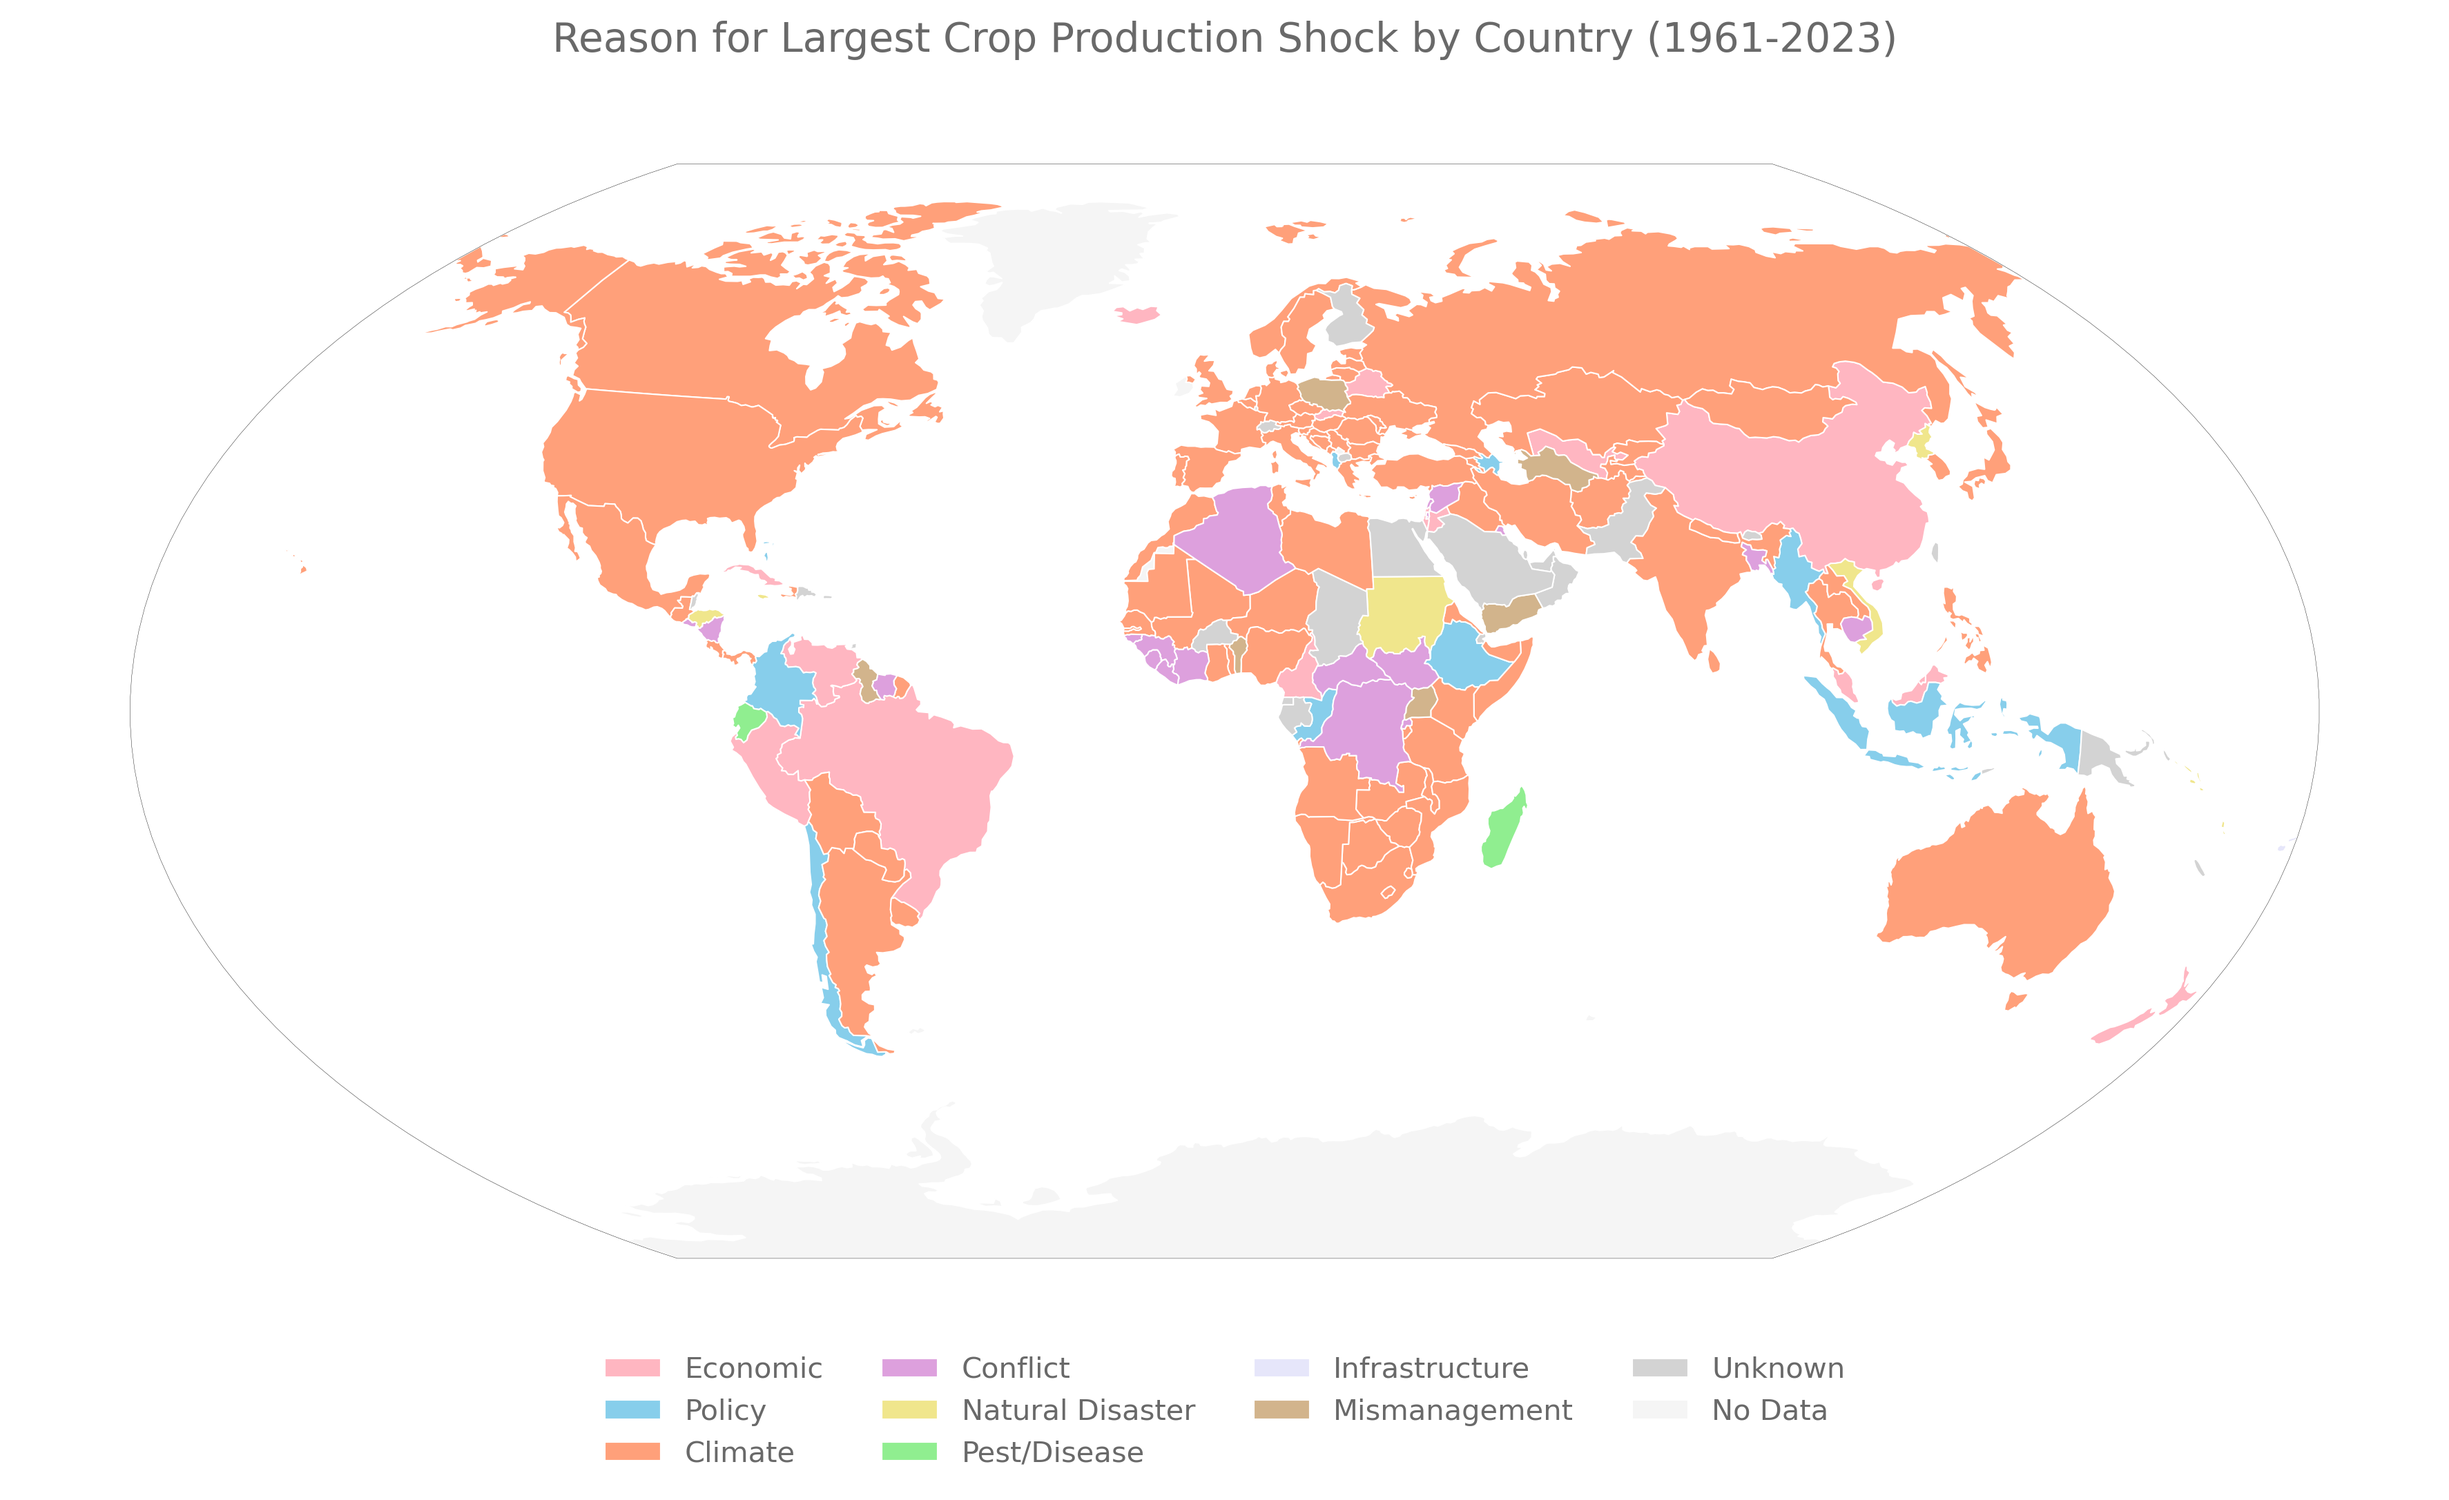
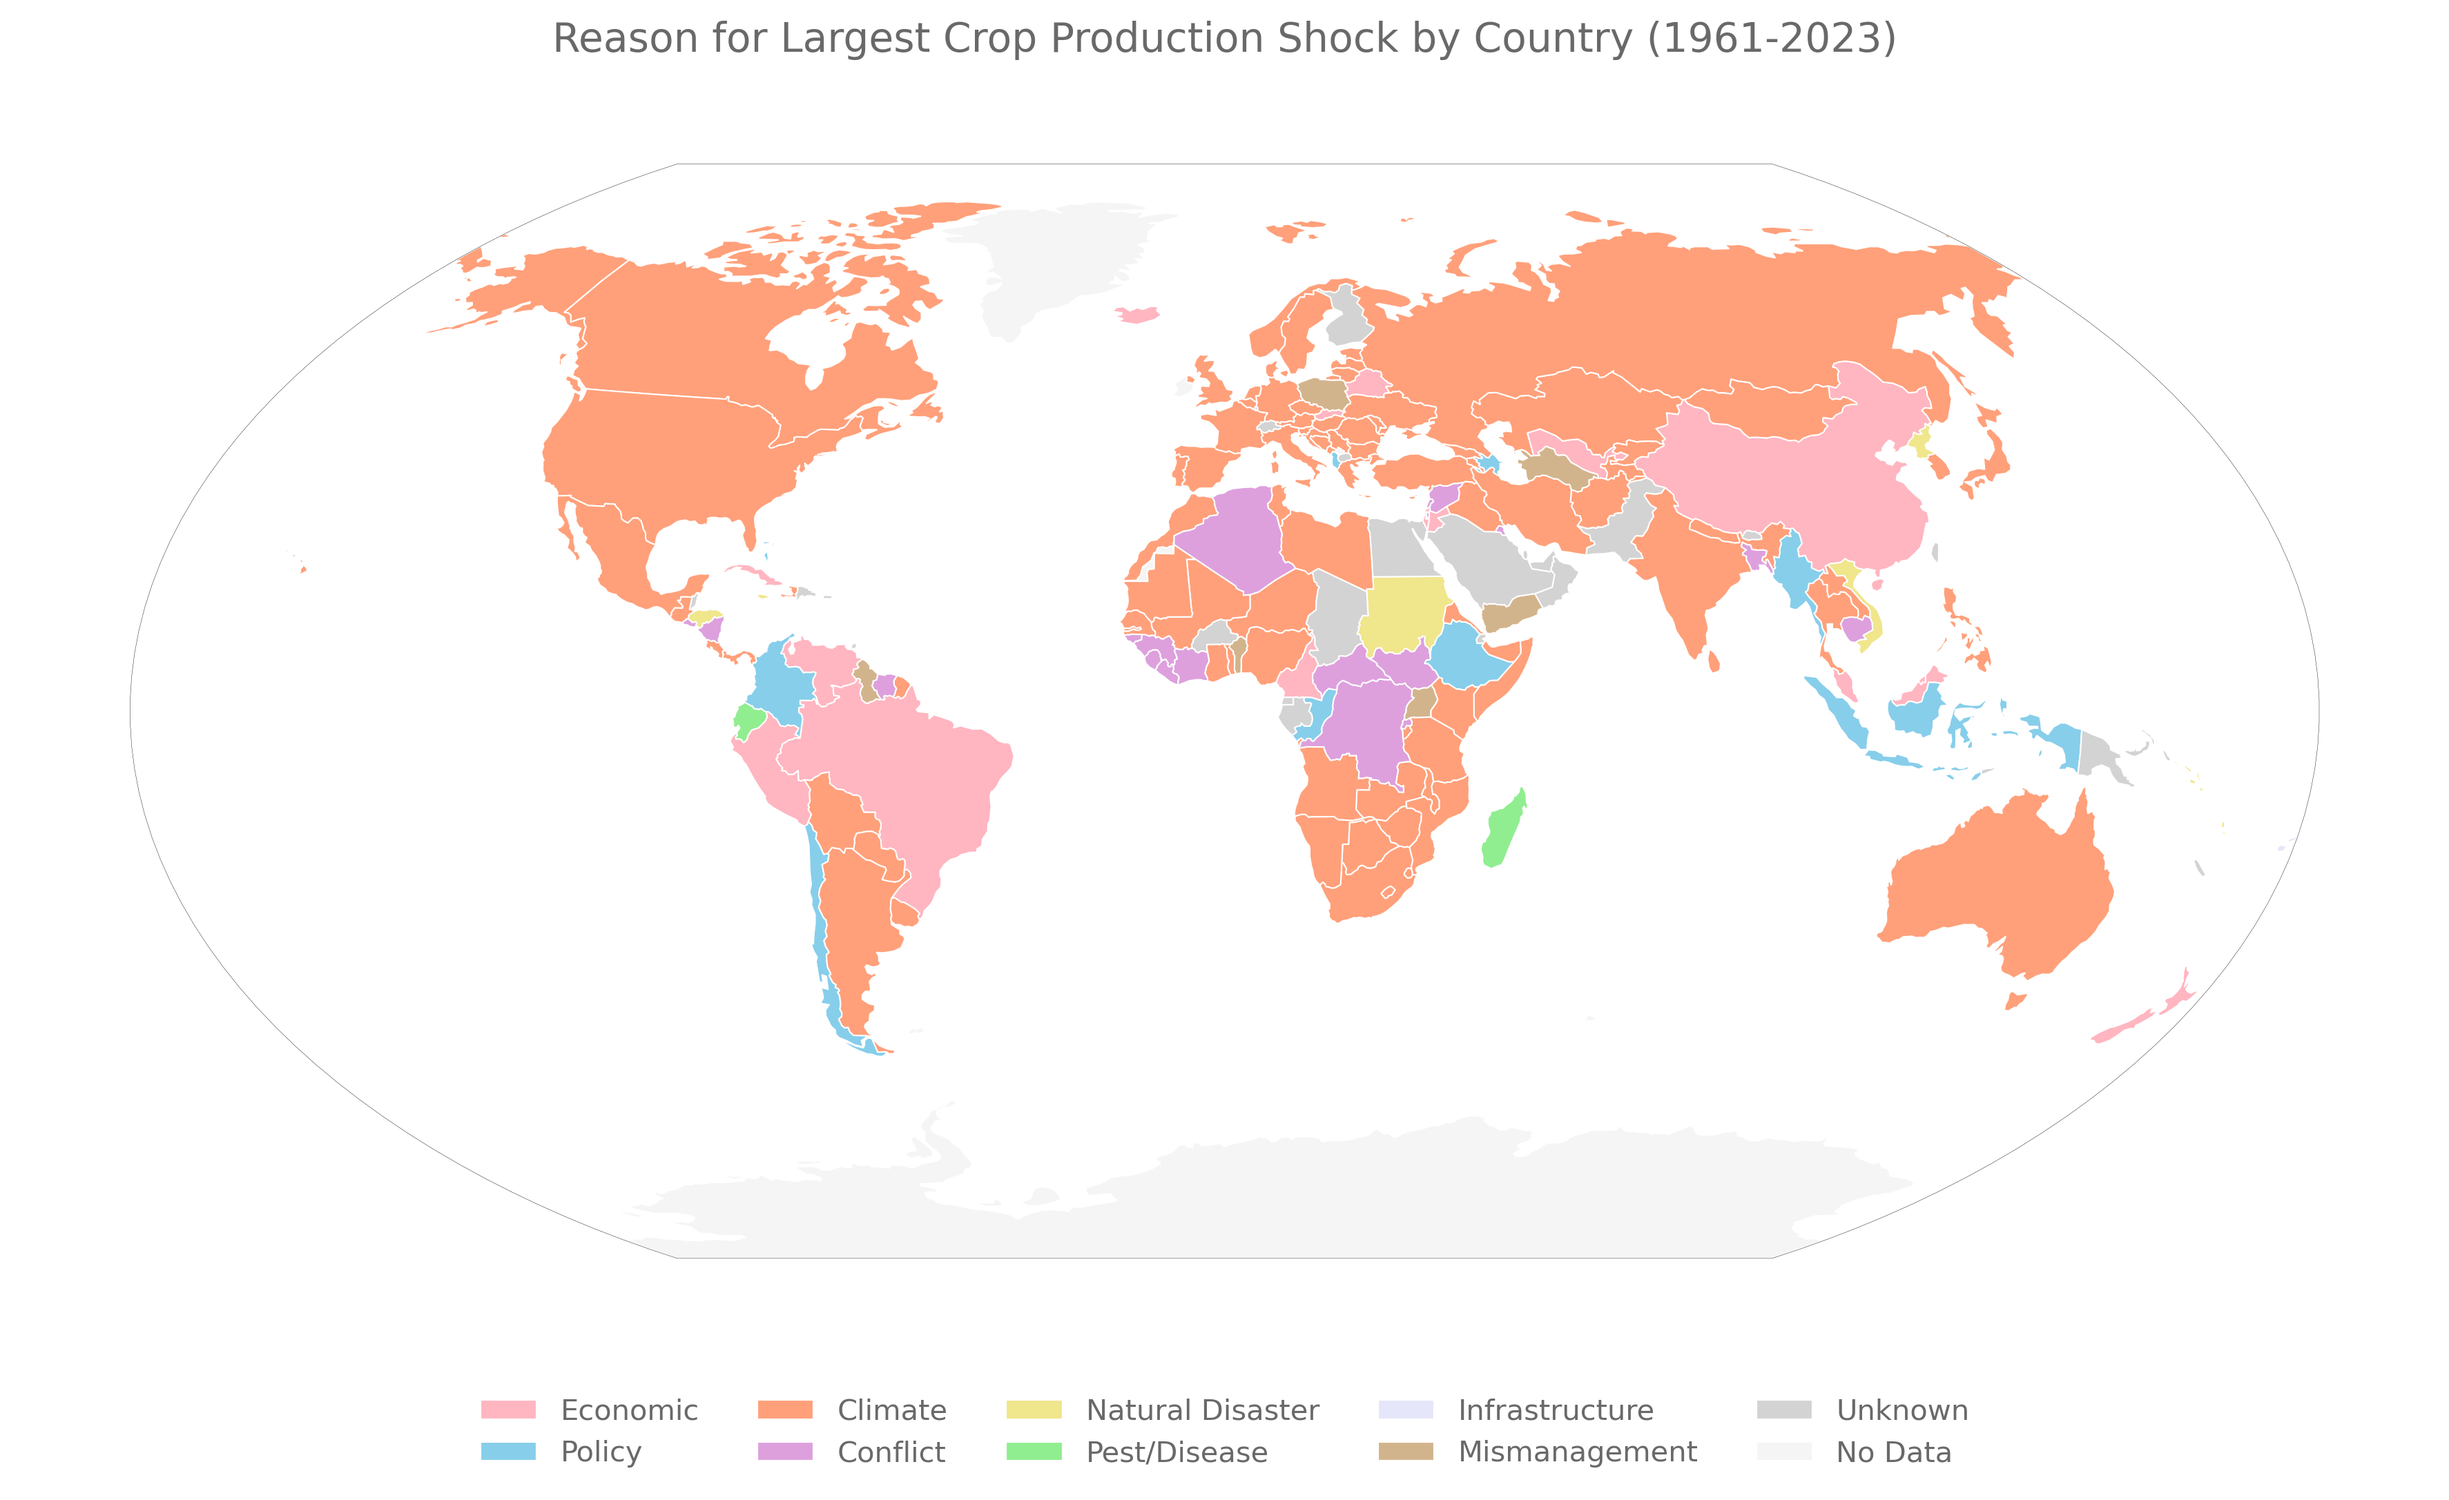
Updated map layout

Changed region(s): [[0.1861, 0.8942, 0.8063, 0.9867]]

diff --git a/src/plot_maps.py b/src/plot_maps.py
@@ -272,7 +272,7 @@ def plot_map_shock_categories(map_df, data_path="results/largest_food_shock_by_c
     ax.legend(handles=legend_elements, 
              loc='lower center', 
              bbox_to_anchor=(0.5, -0.15),
-             ncol=4,
+             ncol=5,
              frameon=False,
              fontsize=10)
     
